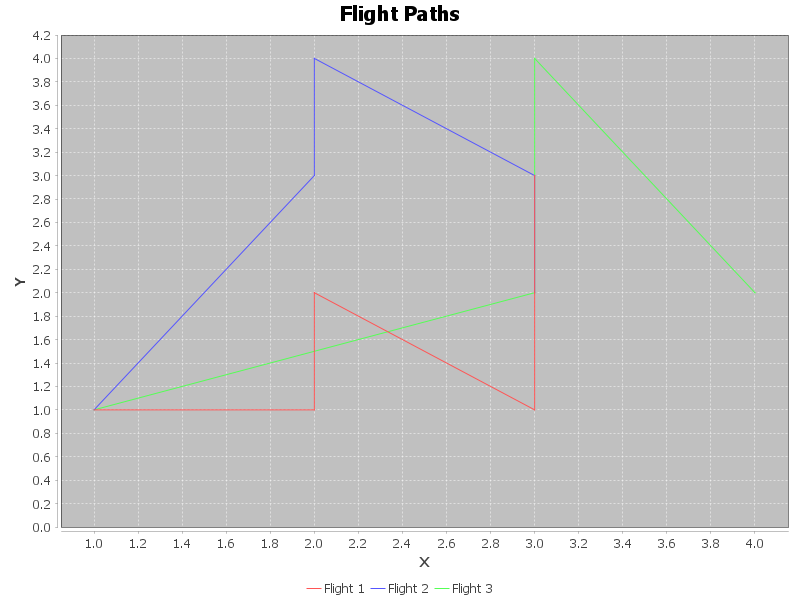
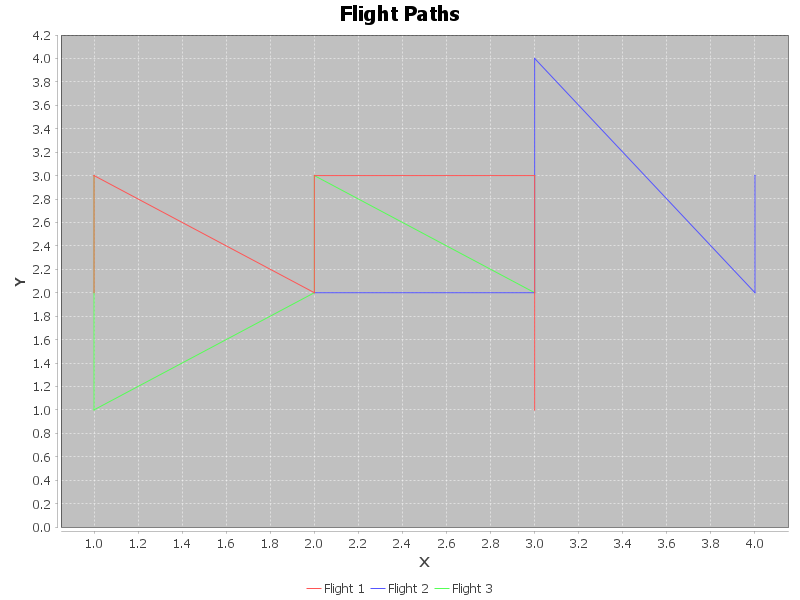
P1 added

diff --git a/Problem-1 No accident, Please/no_accident/src/main/java/com/example/no_accident/NoAccidentApplication.java b/Problem-1 No accident, Please/no_accident/src/main/java/com/example/no_accident/NoAccidentApplication.java
@@ -22,15 +22,15 @@ public class NoAccidentApplication {
 	public static void printPaths() throws Exception {
 		Scanner scanner = new Scanner(System.in);
 
-		// Read input for Flight 1
+		// Read coordinates for Flight 1
 		System.out.println("Enter coordinates for Flight 1 (format: x y, enter 'done' to finish):");
 		List<int[]> flight1 = readCoordinates(scanner);
 
-		// Read input for Flight 2
+		// Read coordinates for Flight 2
 		System.out.println("Enter coordinates for Flight 2 (format: x y, enter 'done' to finish):");
 		List<int[]> flight2 = readCoordinates(scanner);
 
-		// Read input for Flight 3
+		// Read coordinates for Flight 3
 		System.out.println("Enter coordinates for Flight 3 (format: x y, enter 'done' to finish):");
 		List<int[]> flight3 = readCoordinates(scanner);
 
@@ -39,18 +39,14 @@ public class NoAccidentApplication {
 		Set<String> occupiedByFlight2 = new HashSet<>();
 		Set<String> occupiedByFlight3 = new HashSet<>();
 
-		// Track coordinates and segments occupied by flights
-		Set<String> occupiedCoordinates = new HashSet<>();
-		Set<String> occupiedSegments = new HashSet<>();
-
 		// Process Flight 1
-		List<int[]> adjustedFlight1 = processFlight(flight1, occupiedCoordinates, occupiedSegments);
+		List<int[]> adjustedFlight1 = processFlight(flight1, occupiedByFlight1);
 
 		// Process Flight 2
-		List<int[]> adjustedFlight2 = processFlight(flight2, occupiedCoordinates, occupiedSegments);
+		List<int[]> adjustedFlight2 = processFlight(flight2, occupiedByFlight1, occupiedByFlight2);
 
 		// Process Flight 3
-		List<int[]> adjustedFlight3 = processFlight(flight3, occupiedCoordinates, occupiedSegments);
+		List<int[]> adjustedFlight3 = processFlight(flight3, occupiedByFlight1, occupiedByFlight2, occupiedByFlight3);
 
 		// Create dataset
 		XYSeriesCollection dataset = new XYSeriesCollection();
@@ -100,16 +96,26 @@ public class NoAccidentApplication {
 		return coordinates;
 	}
 
-	private static List<int[]> processFlight(List<int[]> flight, Set<String> occupiedCoordinates, Set<String> occupiedSegments) {
+	private static List<int[]> processFlight(List<int[]> flight, Set<String>... occupiedSets) {
 		List<int[]> adjustedFlight = new ArrayList<>();
+		Set<String> occupied = new HashSet<>();
+
+		// Add initial coordinate to the path
 		int[] start = flight.get(0);
 		adjustedFlight.add(start);
-		occupiedCoordinates.add(start[0] + "," + start[1]);
+		occupied.add(start[0] + "," + start[1]);
 
+		// Add coordinates from all sets
+		for (Set<String> set : occupiedSets) {
+			occupied.addAll(set);
+		}
+
+		// Iterate through each coordinate, starting from the second one
 		for (int i = 1; i < flight.size(); i++) {
 			int[] next = flight.get(i);
 			int[] previous = adjustedFlight.get(i - 1);
 
+			// Move step by step towards the next coordinate
 			int x = previous[0];
 			int y = previous[1];
 			while (x != next[0] || y != next[1]) {
@@ -118,30 +124,26 @@ public class NoAccidentApplication {
 				else if (y < next[1]) y++;
 				else if (y > next[1]) y--;
 
-				String currentSegment = previous[0] + "," + previous[1] + "-" + x + "," + y;
-				if (occupiedSegments.contains(currentSegment)) {
-					// Adjust the path if needed
-					while (occupiedCoordinates.contains(x + "," + y) || occupiedSegments.contains(currentSegment)) {
-						if (y < next[1] || y == previous[1]) y++;
-						else if (y > next[1]) y--;
-						else if (x < next[0] || x == previous[0]) x++;
-						else if (x > next[0]) x--;
-						currentSegment = previous[0] + "," + previous[1] + "-" + x + "," + y;
-					}
+				// Adjust path if it intersects with another flight
+				while (occupied.contains(x + "," + y)) {
+					if (y < next[1] || y == previous[1]) y++;
+					else if (y > next[1]) y--;
+					else if (x < next[0] || x == previous[0]) x++;
+					else if (x > next[0]) x--;
 				}
 
 				adjustedFlight.add(new int[]{x, y});
-				occupiedCoordinates.add(x + "," + y);
-				occupiedSegments.add(currentSegment);
-				previous = new int[]{x, y};
+				occupied.add(x + "," + y);
 			}
 
+			// Add the destination to the path
 			adjustedFlight.add(next);
-			occupiedCoordinates.add(next[0] + "," + next[1]);
+			occupied.add(next[0] + "," + next[1]);
 		}
 
 		return adjustedFlight;
 	}
+
 	private static XYSeries createXYSeries(String label, List<int[]> path) {
 		XYSeries series = new XYSeries(label);
 		for (int[] coord : path) {
